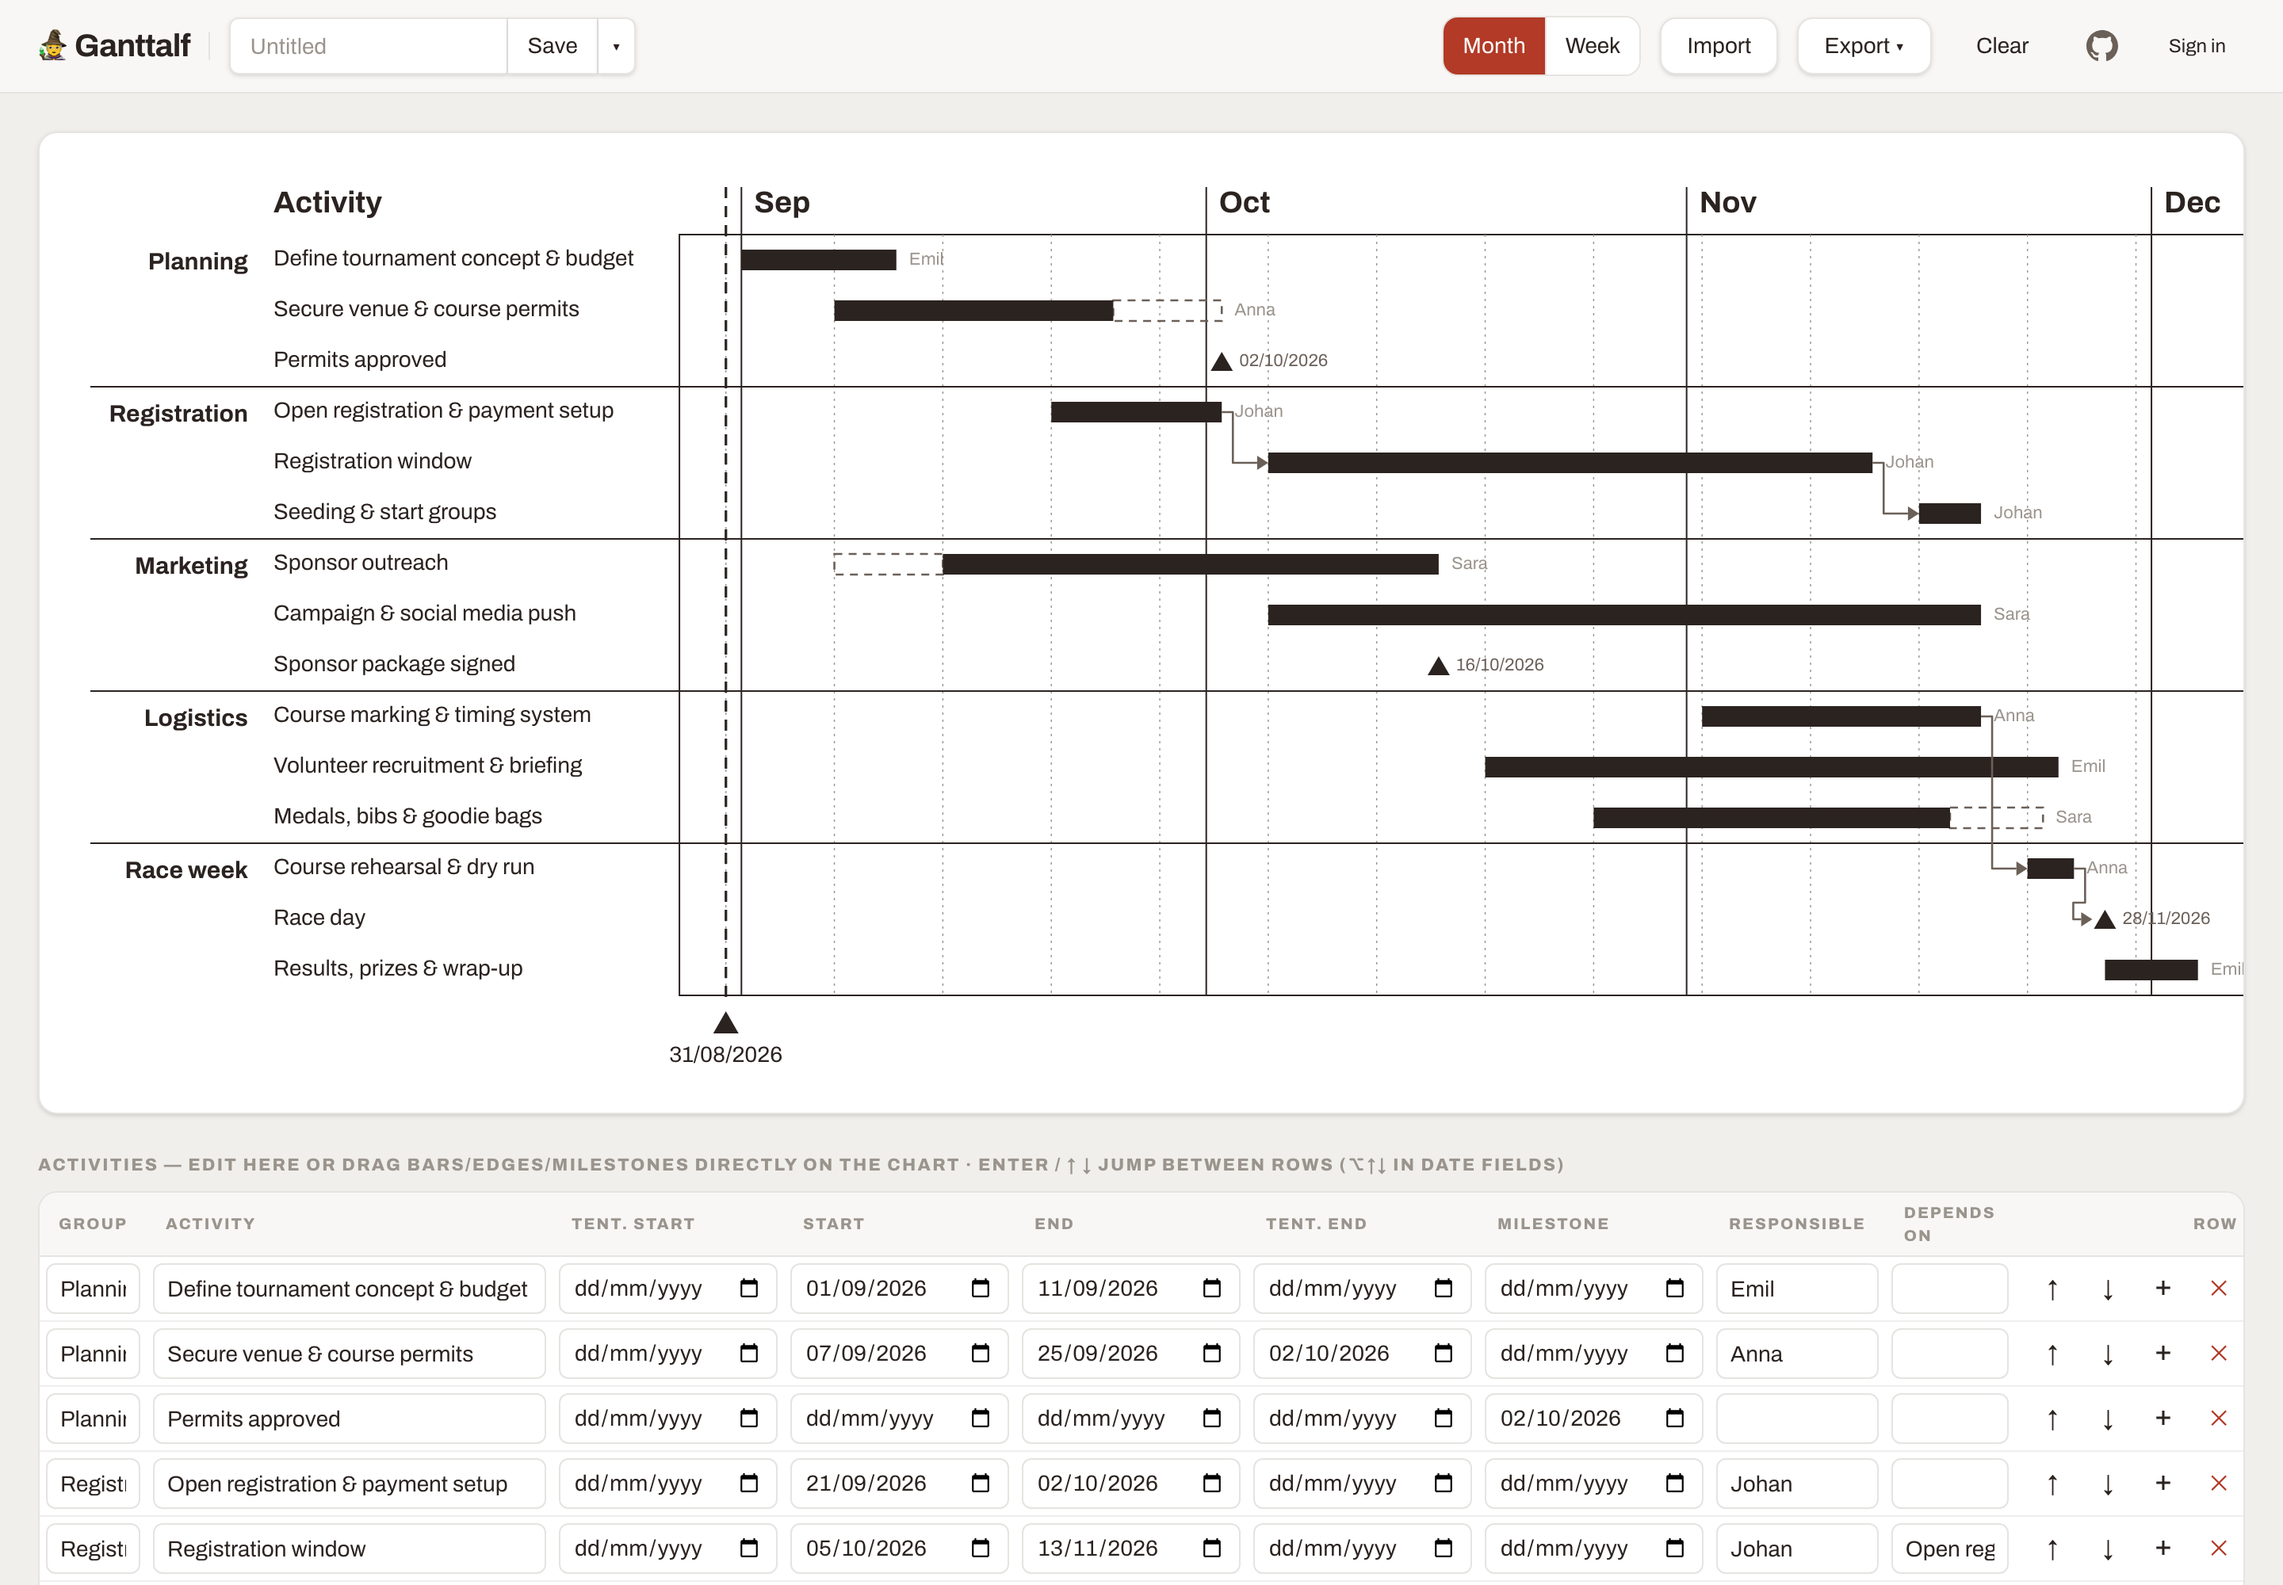
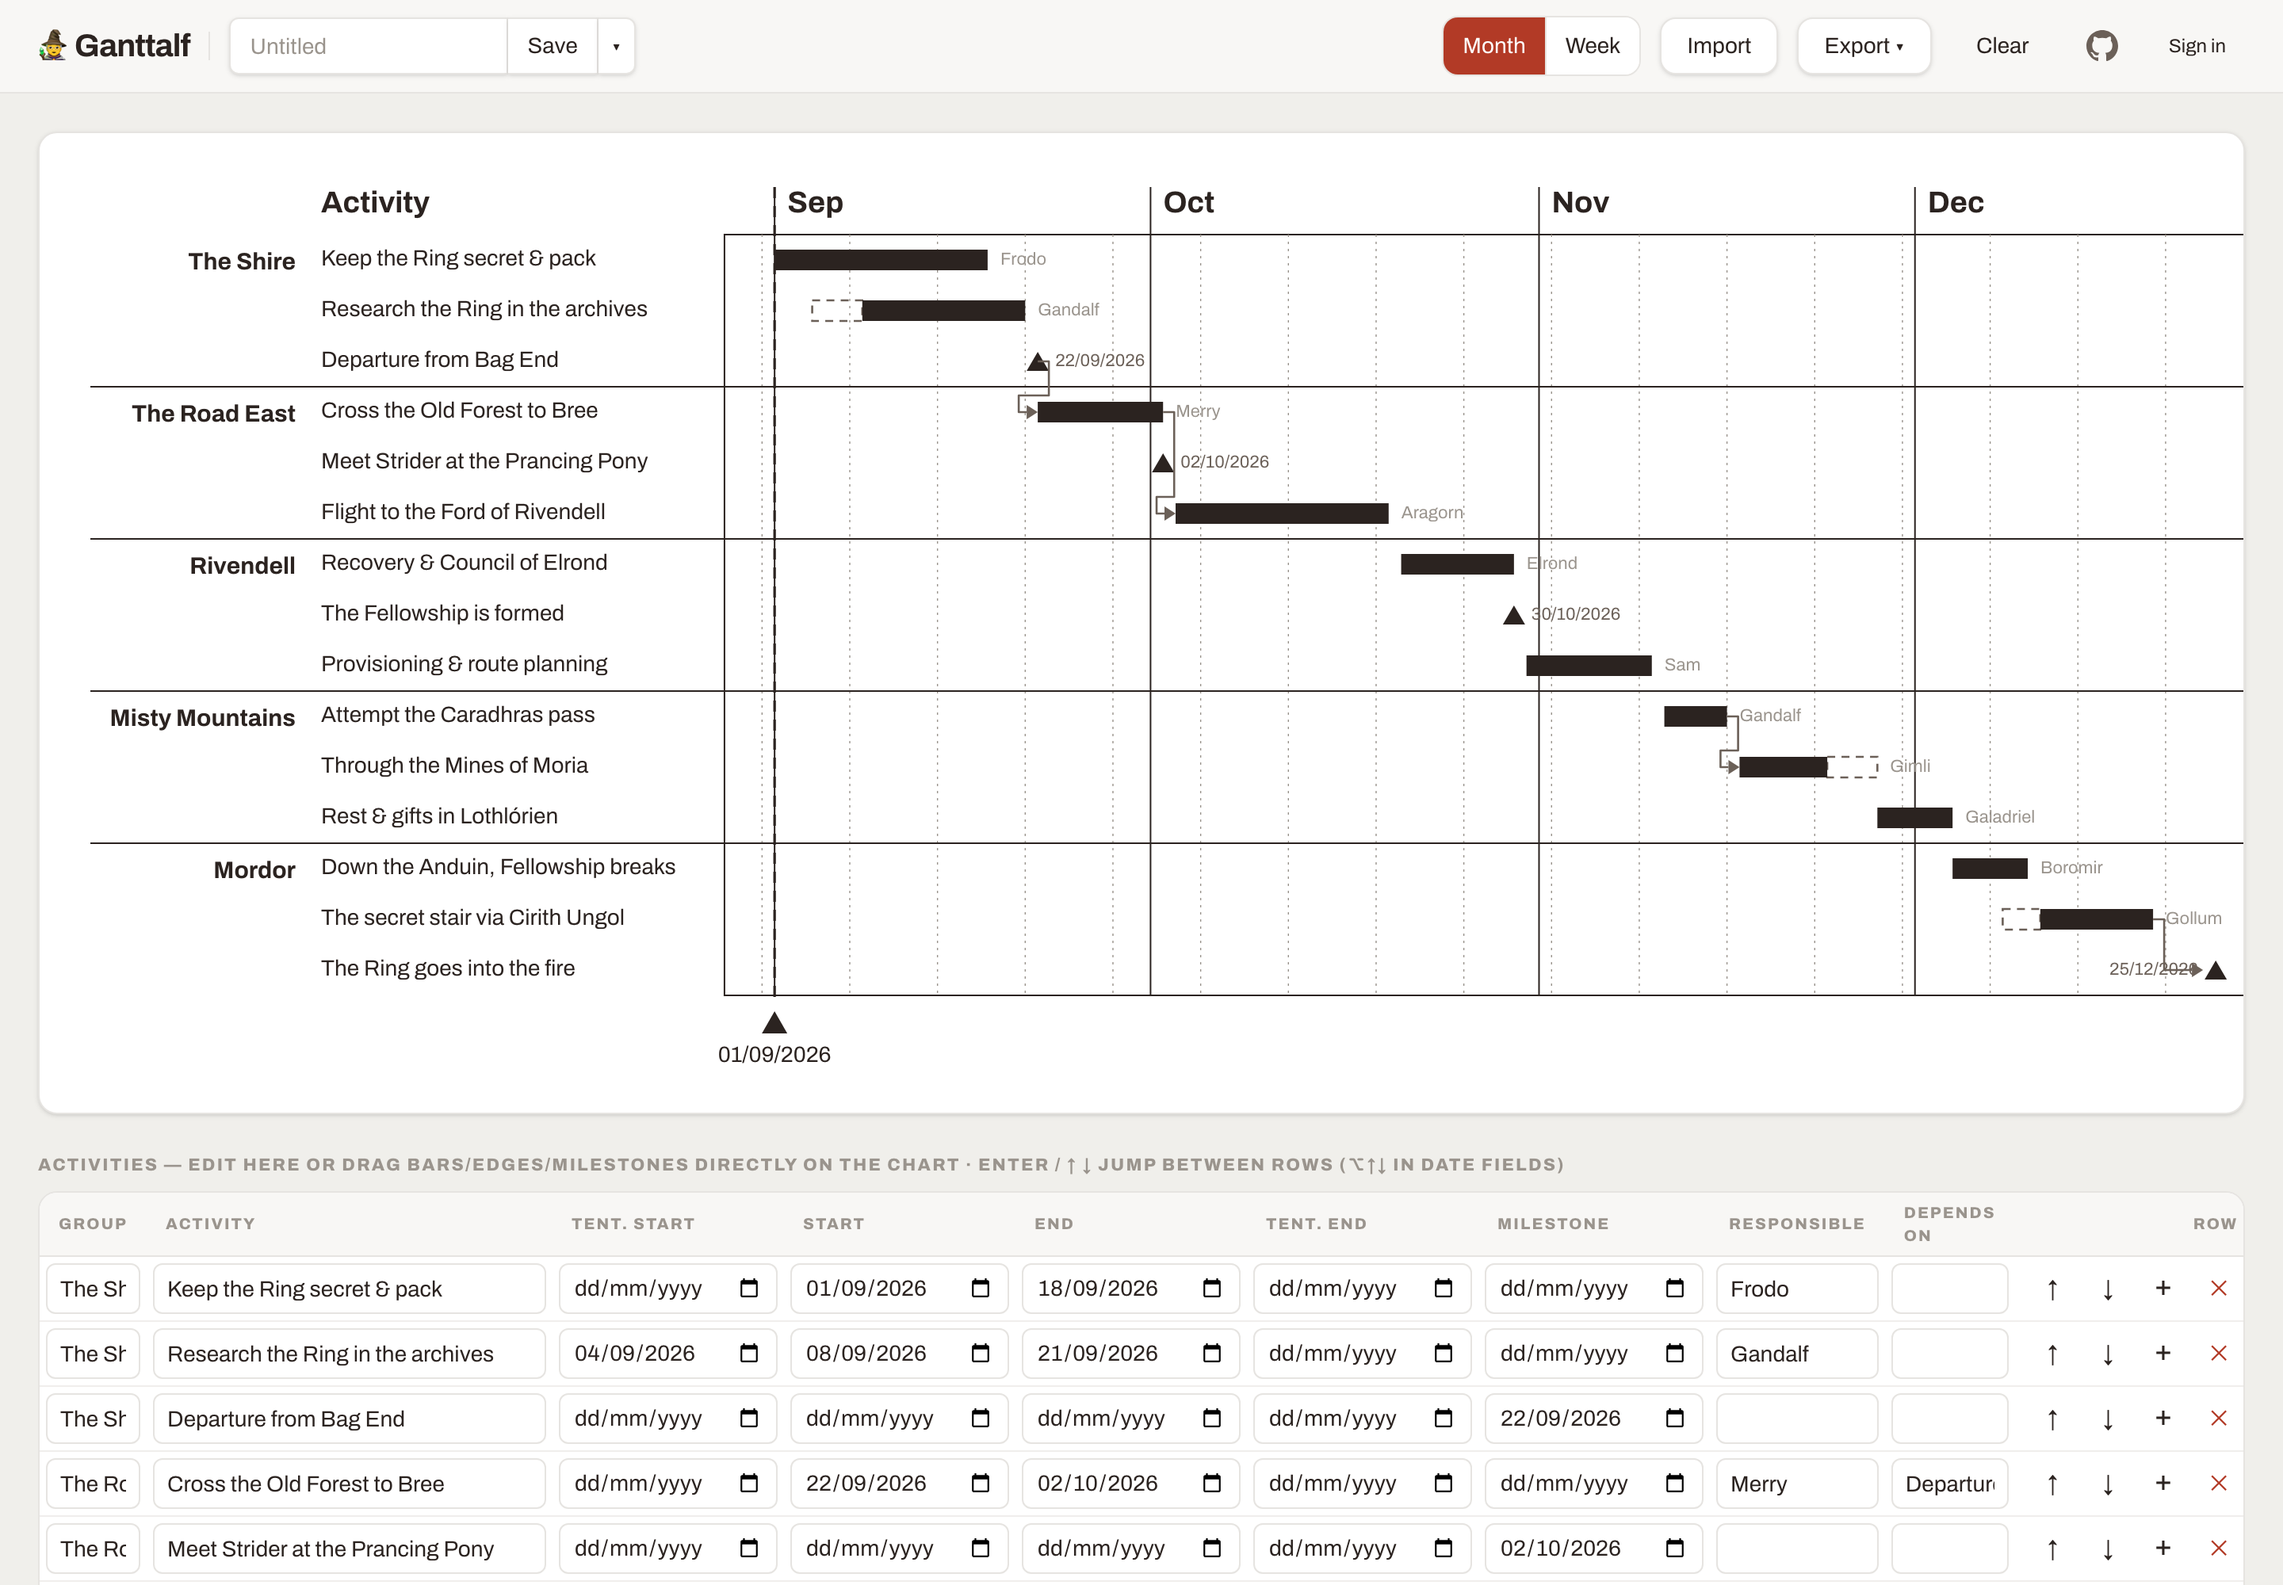
Sample chart: the quest of the Ring
Replaces the runner-tournament sample with a LOTR quest plan (Bag End to
Mount Doom, autumn 2026) in both the Load sample data and the README
screenshot. Same feature coverage as before: groups, tentative bars,
milestones, and dependencies.

Claude-Session: https://claude.ai/code/session_01WmSKrstvba38GBjcBZFaKD

diff --git a/src/lib/sample.js b/src/lib/sample.js
@@ -1,22 +1,22 @@
 import { newId } from './excel.js'
 
-// Runner tournament preparation — race day 2026-11-28.
+// The quest of the Ring — from Bag End to Mount Doom, autumn 2026.
 const raw = [
-  ['Planning', 'Define tournament concept & budget', null, '2026-09-01', '2026-09-11', null, null, 'Emil'],
-  ['Planning', 'Secure venue & course permits', null, '2026-09-07', '2026-09-25', '2026-10-02', null, 'Anna'],
-  ['Planning', 'Permits approved', null, null, null, null, '2026-10-02', ''],
-  ['Registration', 'Open registration & payment setup', null, '2026-09-21', '2026-10-02', null, null, 'Johan'],
-  ['Registration', 'Registration window', null, '2026-10-05', '2026-11-13', null, null, 'Johan', 'Open registration & payment setup'],
-  ['Registration', 'Seeding & start groups', null, '2026-11-16', '2026-11-20', null, null, 'Johan', 'Registration window'],
-  ['Marketing', 'Sponsor outreach', '2026-09-07', '2026-09-14', '2026-10-16', null, null, 'Sara'],
-  ['Marketing', 'Campaign & social media push', null, '2026-10-05', '2026-11-20', null, null, 'Sara'],
-  ['Marketing', 'Sponsor package signed', null, null, null, null, '2026-10-16', ''],
-  ['Logistics', 'Course marking & timing system', null, '2026-11-02', '2026-11-20', null, null, 'Anna'],
-  ['Logistics', 'Volunteer recruitment & briefing', null, '2026-10-19', '2026-11-25', null, null, 'Emil'],
-  ['Logistics', 'Medals, bibs & goodie bags', null, '2026-10-26', '2026-11-18', '2026-11-24', null, 'Sara'],
-  ['Race week', 'Course rehearsal & dry run', null, '2026-11-23', '2026-11-26', null, null, 'Anna', 'Course marking & timing system'],
-  ['Race week', 'Race day', null, null, null, null, '2026-11-28', '', 'Course rehearsal & dry run'],
-  ['Race week', 'Results, prizes & wrap-up', null, '2026-11-28', '2026-12-04', null, null, 'Emil'],
+  ['The Shire', 'Keep the Ring secret & pack', null, '2026-09-01', '2026-09-18', null, null, 'Frodo'],
+  ['The Shire', 'Research the Ring in the archives', '2026-09-04', '2026-09-08', '2026-09-21', null, null, 'Gandalf'],
+  ['The Shire', 'Departure from Bag End', null, null, null, null, '2026-09-22', ''],
+  ['The Road East', 'Cross the Old Forest to Bree', null, '2026-09-22', '2026-10-02', null, null, 'Merry', 'Departure from Bag End'],
+  ['The Road East', 'Meet Strider at the Prancing Pony', null, null, null, null, '2026-10-02', ''],
+  ['The Road East', 'Flight to the Ford of Rivendell', null, '2026-10-03', '2026-10-20', null, null, 'Aragorn', 'Cross the Old Forest to Bree'],
+  ['Rivendell', 'Recovery & Council of Elrond', null, '2026-10-21', '2026-10-30', null, null, 'Elrond'],
+  ['Rivendell', 'The Fellowship is formed', null, null, null, null, '2026-10-30', ''],
+  ['Rivendell', 'Provisioning & route planning', null, '2026-10-31', '2026-11-10', null, null, 'Sam'],
+  ['Misty Mountains', 'Attempt the Caradhras pass', null, '2026-11-11', '2026-11-16', null, null, 'Gandalf'],
+  ['Misty Mountains', 'Through the Mines of Moria', null, '2026-11-17', '2026-11-24', '2026-11-28', null, 'Gimli', 'Attempt the Caradhras pass'],
+  ['Misty Mountains', 'Rest & gifts in Lothlórien', null, '2026-11-28', '2026-12-04', null, null, 'Galadriel'],
+  ['Mordor', 'Down the Anduin, Fellowship breaks', null, '2026-12-04', '2026-12-10', null, null, 'Boromir'],
+  ['Mordor', 'The secret stair via Cirith Ungol', '2026-12-08', '2026-12-11', '2026-12-20', null, null, 'Gollum'],
+  ['Mordor', 'The Ring goes into the fire', null, null, null, null, '2026-12-25', '', 'The secret stair via Cirith Ungol'],
 ]
 
 export function sampleRows() {
